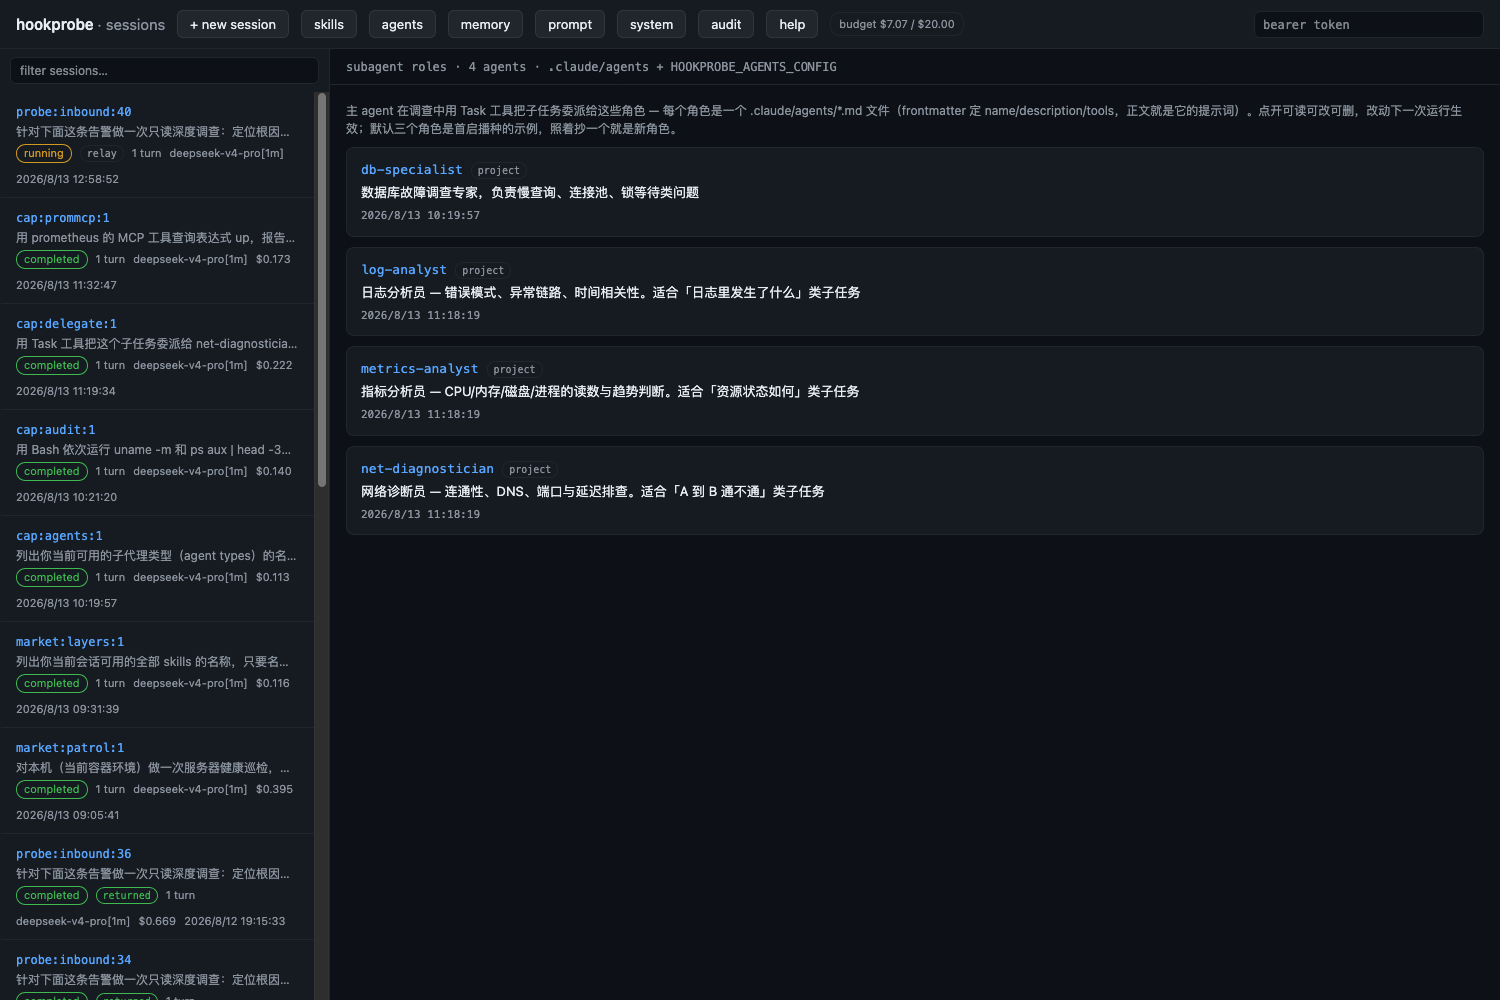
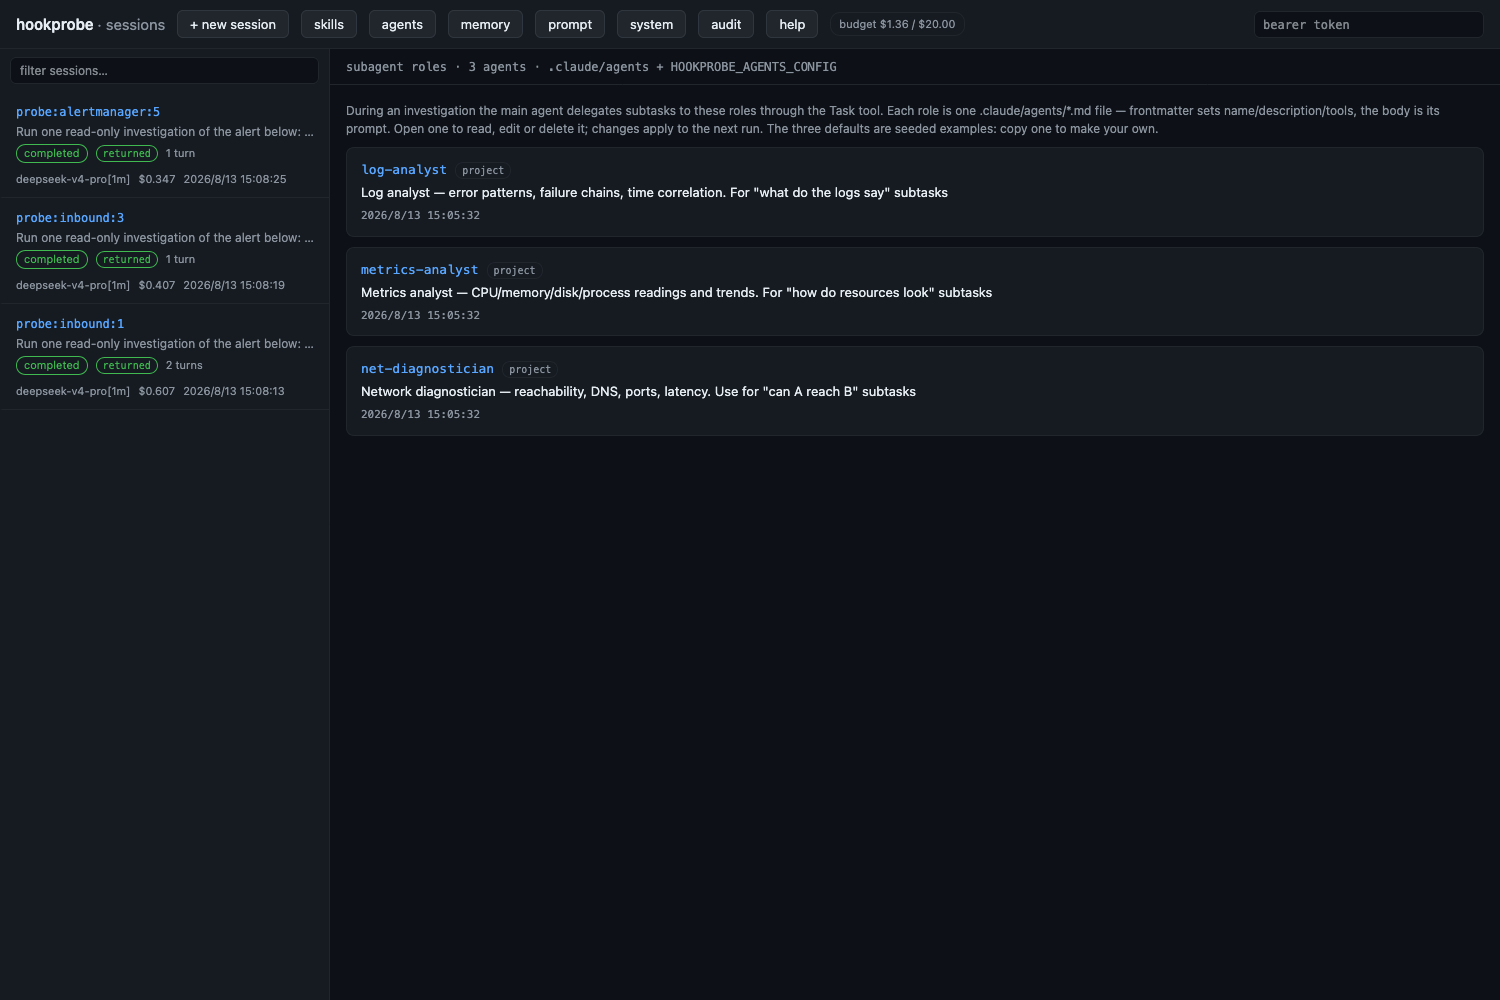
docs: retake every screenshot in English, and tell the run that actually happened
The prose was English but the images still showed the pre-sweep Chinese UI.
All eight are retaken from one clean-slate run on 2026-08-13 (English demo
alerts, DeepSeek as the real judge), and the narrative now describes what
those images show rather than the older run: 24 deliveries with nothing
queued or dead, four verdicts at 50% paid for $0.000498 with the recovery
inheriting its firing's high, and three investigations totalling $1.36.

The investigator's report is different this time and better evidence for the
design: it established that node-3 is unreachable and that this Prometheus
scrapes only itself, then refused to invent a cause — 'Undetermined — the
signal cannot be verified or localized from here' — while still ranking
remediation and naming the observability gap the alert exposed. That is the
environment memory's honesty rule arriving intact at the model, so the memory
section now points at it. The skills view shows both a runbook this run
distilled and one installed unchanged from the marketplace.

diff --git a/OVERVIEW.md b/OVERVIEW.md
@@ -10,15 +10,14 @@ three live in this repository, each entirely self-contained (its own package,
 tests, gate, Dockerfile and CI), and together they form a complete alert
 handling pipeline.
 
-Every screenshot below comes from one local Docker run on 2026-08-12, started
-from nothing (`docker compose down -v`, then five containers up with
+Every screenshot below comes from one local Docker run on 2026-08-13, started
+from nothing (`docker compose down -v`, then the family up with
 `--profile probe`) — not mockups: four demo alerts came in the front door, and
-the verdicts and three deep investigations landed in the same ledger. The
-investigator ran against DeepSeek's Anthropic-dialect endpoint on that run —
-the engine is not provider-locked; one `ANTHROPIC_BASE_URL` plus a few model
-alias mappings is the whole switch. Steps are in [STACK.md](STACK.md) (that
-run book documents the self-contained pair; this run added `--profile probe`
-on top).
+four verdicts plus three deep investigations landed in the same ledger. The
+investigator ran against DeepSeek's Anthropic-dialect endpoint — the engine is
+not provider-locked; one `ANTHROPIC_BASE_URL` plus a few model alias mappings
+is the whole switch. Steps are in [STACK.md](STACK.md) (that run book
+documents the self-contained pair; this run added `--profile probe` on top).
 
 ```
 upstream alert sources (Grafana / Alertmanager / cloud monitoring …)
@@ -65,7 +64,7 @@ any event opens into its full decision chain.
 The screenshot below is the ledger after the four demo alerts — the whole
 family loop on one page. Each front-door event is routed, in one decision, to
 both `to-judge` and `to-probe` (#1–#8: four alerts and the four verdicts that
-followed within seconds); minutes later the investigator's reports come back
+came back within seconds); minutes later the investigators' reports return
 through `probe-notify`, get dressed as cards, and are delivered to
 `ops-feishu` and `ops-dingtalk` (#9–#12) — 24 deliveries, all sent, nothing
 queued, nothing dead. The ledger also keeps **the bytes of both directions**:
@@ -88,15 +87,14 @@ same condition restated re-serves the last AI verdict, free) → **ai** (a real,
 paid model call) → **rule** (the keyword floor). The saving does not come from
 a cheaper model; it comes from most events never reaching `ai` at all.
 
-Below is the verdict ledger for those four alerts: the payment gateway 5xx
-paid for `ai` the first time and hit `reuse` for free when the same condition
-was restated; the disk alert paid for `ai`, and its recovery took `recovery`
-for free — 4 verdicts, 50% paid, $0.000524 total, zero failed returns. Those
-numbers are exactly what [STACK.md](STACK.md) promises. Point
-`HOOKJUDGE_AI_*` at any OpenAI-compatible endpoint and the stub becomes a real
-judge: verified against DeepSeek, a first sighting took `ai` ($0.0002 for the
-call) and the restatement still hit `reuse` ($0) — the cost policy holds
-unchanged on a real model. If a verdict's return dies for good, the self-alarm
+Below is the verdict ledger for those four alerts, and this run judged them
+with a real model (DeepSeek) rather than the stub: the payment gateway 5xx paid
+for `ai` the first time and hit `reuse` for free when the same condition was
+restated; the disk alert paid for `ai`, and its recovery took `recovery` for
+free, inheriting the firing's `high` — 4 verdicts, 50% paid, $0.000498 total,
+zero failed returns. The stub run in [STACK.md](STACK.md) produces the same
+shape for $0.000524, which is the point: the cost policy is structural, not a
+property of one model. If a verdict's return dies for good, the self-alarm
 carries the news.
 
 ![hookjudge status page: four verdicts with their routes, 50% paid](docs/img/hookjudge-status.png)
@@ -136,15 +134,19 @@ the same engine session resumes, with the first round's tool output, evidence
 and dead ends all still there. A running turn can be stopped at any time.
 
 Below is the session page after the disk investigation finished: the report
-rendered as Markdown with its one-sentence conclusion first, the 48-step
-process folded above it, and a bill line reading deepseek-v4-pro[1m]
-(auxiliary deepseek-v4-flash $0.005) · in 50.5k · out 13.3k · cache 1292.2k
-read · $1.24 · 206s. The conclusion is the part worth reading: the agent went
-through the pipe's own ledger, found that /var had already fallen back to 41%
-three seconds after the alert, and overturned a `high` alert as a transient
-spike rather than real exhaustion — the recovery event that the level gate had
-kept out of the investigation, the investigator found on its own, from
-evidence.
+rendered as Markdown with its conclusion first, the process folded above it,
+and a bill line reading deepseek-v4-pro[1m] (auxiliary deepseek-v4-flash
+$0.0060) · in 40.7k · out 2.8k · cache 138.2k read · $0.3471 · 45.0s. What the
+report says is the part worth reading. The agent established that node-3 is
+unreachable from the container and that this Prometheus scrapes only itself, so
+no filesystem metric exists to confirm the alert — and then refused to invent
+one: **"Undetermined — the signal cannot be verified or localized from here …
+I will not invent a cause."** It still produced ranked remediation, and the
+most useful item is the one the environment itself surfaced: the alert fires
+with no disk metrics behind it, so add node-exporter and the alert becomes
+diagnosable next time. An investigation that reports an observability gap
+instead of a fabricated root cause is the behaviour the environment memory
+asks for.
 
 ![hookprobe sessions console](docs/img/hookprobe-sessions.png)
 
@@ -153,22 +155,26 @@ step scrolls in live — blue for a tool call (with a one-line summary), italic
 for the agent's narration between tools, and the plan checklist (TodoWrite)
 rendered as a to-do list. When it finishes the whole thing folds into
 `process · N steps`, openable forever after. The shot below catches the disk
-investigation halfway: Bash events scrolling past as the agent probes what
-evidence this environment actually exposes — the pipe's status and
-decision-chain endpoints, the judge's verdict on this alert, the container's
-own disk state — with the last line, a Write, laying down the report file. The
+investigation halfway: it opens with `Grep DiskWillFill|disk usage|node-3|/var`
+across the case files — the episodic-memory instruction doing its job — then
+reads the three case files it found, resolves node-3, and queries the
+Prometheus targets and metric names to see what is actually scrapeable. The
 other two investigations on the left have already finished with their costs.
 
 ![live process feed: every tool call of an investigation, as it happens](docs/img/hookprobe-live-feed.png)
 
 Everything the agent accumulates is manageable from the page. The skills view
 lists every runbook (frontmatter description, files, modification time) and
-renders one in full when opened — `gateway-5xx-triage` in the shot below is a
-product of this very run: after the payment-gateway investigation finished, one
-follow-up ("distil the diagnostic path you verified into a skill") had the
-agent write down the ledger, verdict and event-detail lookups it had actually
-used. Later alerts of the same kind start with that experience in hand: the
-investigator gets smarter with use.
+renders one in full when opened. Both entries in the shot below are real:
+`gateway-5xx-triage` is a product of this very run — after the payment-gateway
+investigation finished, one follow-up ("distil the diagnostic path you
+verified into a skill") had the agent write down the lookups it had actually
+used, and its own description now tells the next run to open prior case files
+first and to state reachability honestly. `victoriametrics-metrics` came from
+the OpenOcta marketplace unchanged: the SKILL.md format is shared across the
+whole OpenClaw lineage, so a downloaded package is installed by unzipping it
+into `.claude/skills/`. Later alerts start with both in hand — the
+investigator gets smarter with use, and can borrow.
 
 ![skills browser: the diagnostic runbook this run distilled](docs/img/hookprobe-skills.png)
 
@@ -176,11 +182,13 @@ The memory view edits the environment memory (CLAUDE.md in the workdir):
 cluster topology, known false alarms and naming conventions written there are
 injected into every investigation. This run's memory said the objects in the
 demo alerts are fictional and unreachable from the container, that reachability
-must be stated honestly, that reasoning must rest on the ledger and on
-in-container evidence, and that data must never be invented. Look back at the
-investigation report above: that is exactly what the agent did — its
-conclusions were built on the pipe's decision chain and the judge's verdict,
-and it invented no data about a machine it could not log into.
+must be stated honestly, that reasoning must rest on the alert payload and
+in-container evidence, and that a reading must never be invented. Look back at
+the report above: "Undetermined … I will not invent a cause" is that
+instruction arriving intact at the model — the memory is not decoration, it is
+the reason the report is trustworthy. Beside it, the prompt view holds the
+methodology appended to the engine's own system prompt; both are read fresh at
+every run, so an edit applies to the next investigation with no restart.
 
 ![environment memory editor: CLAUDE.md reaches every investigation](docs/img/hookprobe-memory.png)
 
@@ -212,8 +220,9 @@ page — secrets as set/unset, never values.
 The investigator is wired into the family's own alert flow: the pipe's
 escalation routes copy every front-door event to `/hooks/event`, and whether an
 investigation is worth paying for is the probe's own call by level (critical
-and high by default, idempotent per source + event_id — an alert storm funds
-one investigation, not N). When it finishes, the report returns to the pipe's
+and high by default, idempotent per source + event_id — a redelivery of the
+same event funds one investigation, not N; a restatement carrying a new event
+id is a new investigation, which is what the budget breaker is for). When it finishes, the report returns to the pipe's
 `probe-notify` front door, signed with the family's timestamped HMAC, and the
 pipe dresses it as a card for the same channels as the verdict. The pipe stays
 content-blind, the judge was not touched at all, and a failed investigation
